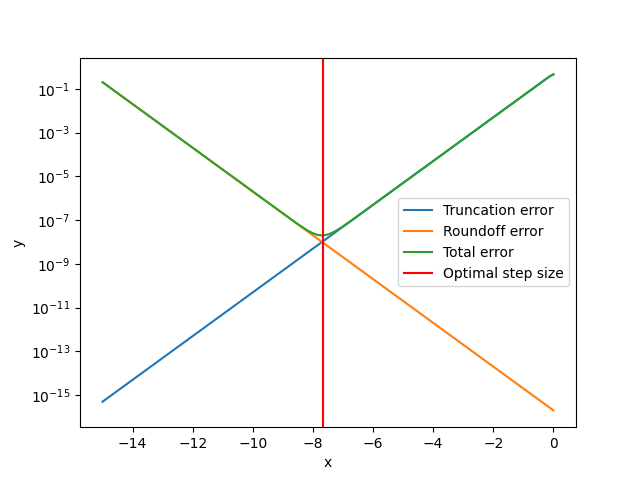
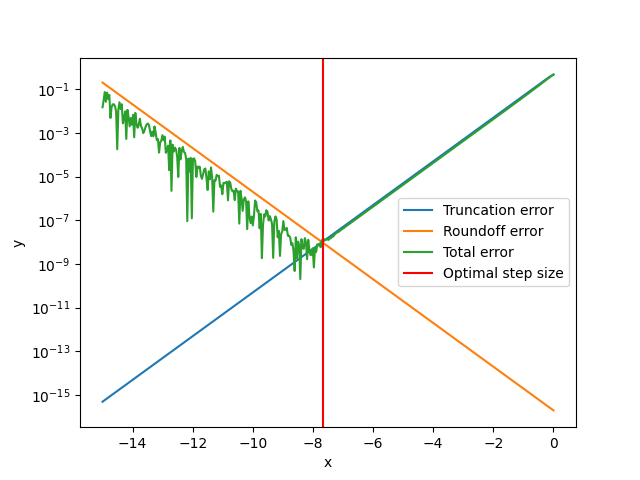
Improved diff plot

Changed region(s): [[0.1562, 0.1562, 0.875, 0.5625], [0.0625, 0.25, 0.125, 0.3125]]

diff --git a/HW_2/diff_approximation_plot.py b/HW_2/diff_approximation_plot.py
@@ -13,7 +13,8 @@ def get_data_for_n(n, epsilon):
         M = 1
     truncation_err = (M * h) / 2
     round_off_err = (2 * epsilon) / h
-    tot_err = truncation_err + round_off_err
+    approximation = (f(1 + h) - f(1)) / h
+    tot_err = np.abs(approximation - np.cos(1))
     return truncation_err, round_off_err, tot_err
 
 def plot(min_n, max_n, epsilon):
